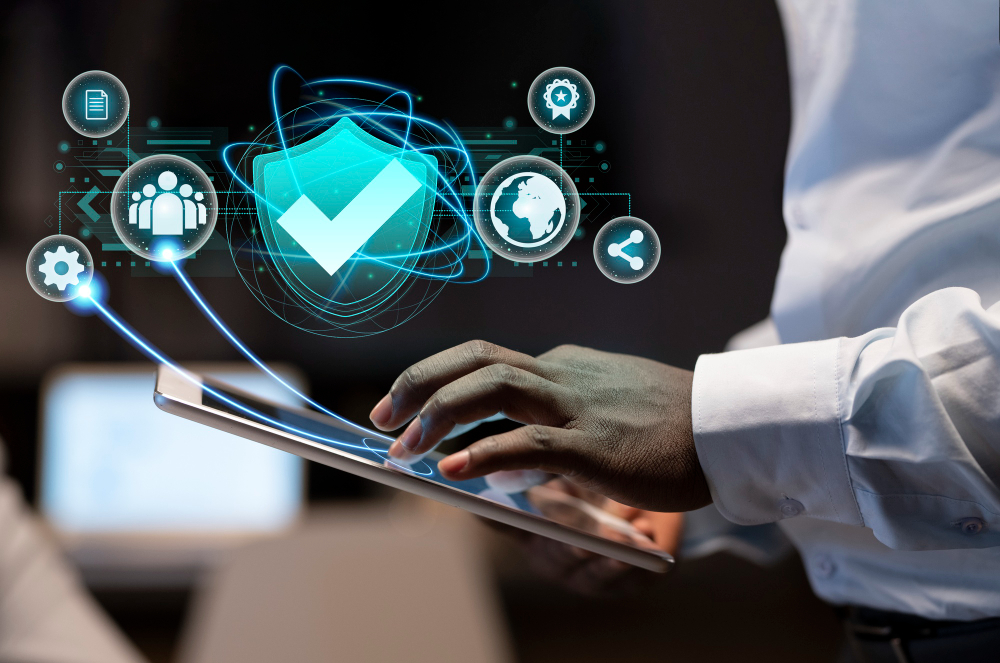
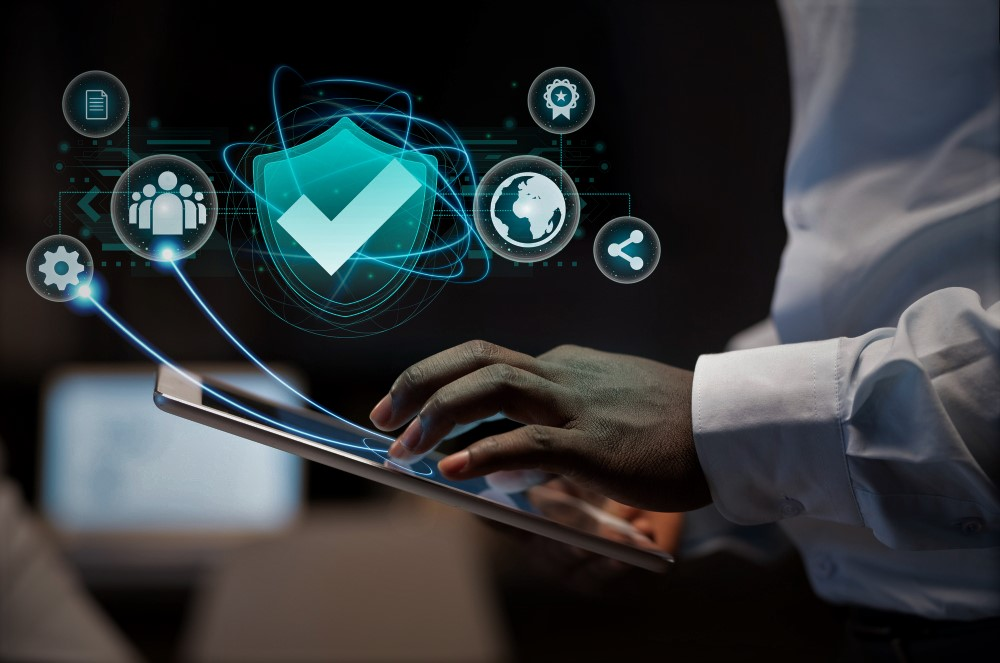
Mudança do formulário para fim da página e alteração na imagem da capa

diff --git a/index.html b/index.html
@@ -137,7 +137,7 @@
                             <a class="mx-5 nav-link text-white" href="#contadores">Resultados</a>
                         </li>
                         <li class="nav-item">
-                            <a class="btn btn-light mx-5 nav-link" href="#" id="btnMenuContato">Fazer orçamento</a>
+                            <a class="btn btn-light mx-5 nav-link text-dark" href="#meuFormulario">Fazer orçamento</a>
                         </li>
                     </ul>
                 </div>
@@ -146,56 +146,10 @@
 
         <!--Primeira página do site-->
         <section class="primeiraPagina">
-            <article class="row">
-                <div class="col-xl-8 primeiraPaginaFrase">
-                    <h1 class="text-center text-white">Consultoria especializada para seu trabalho
+                <div class="col primeiraPaginaFrase">
+                    <h1 class="text-justify text-white">Consultoria sob medida para seu trabalho
                         acadêmico</h1>
                 </div>
-                <article class="col-xl-3 formulario my-4 rounded shadow">
-                    <form action="https://formspree.io/f/xeqbkbgp" method="post" id="meuFormulario">
-                        <h6 class="py-3 text-white text-center">Faça um orçamento sem compromisso</h6>
-                        <input class="form-control" type="text" name="nome" placeholder="Nome completo" id="nome">
-                        <input class="form-control my-4" type="email" name="_replyto" placeholder="E-mail principal"
-                            id="email">
-                        <div class="row">
-                            <div class="col-xl-5">
-                                <input class="form-control mb-4" type="tel" name="telefone" placeholder="Celular"
-                                    id="telefone">
-                            </div>
-                            <div class="col-xl-7">
-                                <select class="form-control mb-4" name="interesse" id="interesse">
-                                    <option value="" disabled selected>Interesse</option>
-                                    <option value="artigo">Artigo</option>
-                                    <option value="dissertacao">Dissertação</option>
-                                    <option value="monografia">Monografia</option>
-                                    <option value="plano">Plano de aula</option>
-                                    <option value="projetoPesquisa">Projeto de pesquisa</option>
-                                    <option value="projetoViabilidade">Projeto de viabilidade</option>
-                                    <option value="outroTipoTrabalho">Outro tipo de trabalho</option>
-                                </select>
-                            </div>
-                        </div>
-                        <select class="form-control mb-4" name="curso" id="curso">
-                            <option value="" selected disabled>Curso</option>
-                            <option value="administracao">Administração</option>
-                            <option value="contabeis">Ciências Contábeis</option>
-                            <option value="economia">Economia</option>
-                            <option value="direito">Direito</option>
-                            <option value="enfermagem">Enfermagem</option>
-                            <option value="engenharia">Engenharia</option>
-                            <option value="fisioterapia">Fisioterapia</option>
-                            <option value="medicina">Medicina</option>
-                            <option value="pedagogia">Pedagogia</option>
-                            <option value="outro">Outro curso</option>
-                        </select>
-                        <textarea class="form-control" name="mensagem" id="mensagem" cols="30" rows="4"
-                            placeholder="Deixe aqui sua mensagem..."></textarea>
-                        <button class="btn btn-danger my-3 text-white" id="btnFormPrimeiraPagina" type="submit"
-                            onclick="limparCampos()">Entrar em
-                            contato</button>
-                    </form>
-                </article>
-            </article>
         </section>
 
         <!--Seção de Equipe-->
@@ -299,6 +253,7 @@
 
         <!--Seção de depoimentos-->
         <div class="depoimentos" id="depoimentos">
+            <div class="col"><h3 class="text-center text-secondary">O que dizem nossos clientes...</h3></div>
             <div class="depoimento my-4 mx-2 shadow" data-aos="fade-up" data-aos-duration="1500">
                 <h4 class="mb-2 pt-4 text-center text-secondary">Ana Maria S.</h4>
                 <h6 class="text-center text-secondary font-weight-bold">Enfermagem</h6>
@@ -332,7 +287,7 @@
                 </p>
             </div>
             <div class="depoimento my-4 mx-2 shadow" data-aos="fade-up" data-aos-duration="1500">
-                <h4 class="mb-2 pt-4 text-center text-secondary">Ana Maria S.</h4>
+                <h4 class="mb-2 pt-4 text-center text-secondary">Silvana J.</h4>
                 <h6 class="text-center text-secondary font-weight-bold">Direito</h6>
                 <p class="pt-3 px-4 text-justify text-dark">"O serviço de consultoria da Soluções Acadêmicas me deu a
                     oportunidade de equilibrar minha vida acadêmica e pessoal, porque eu estava enlouquecendo sem saber
@@ -347,7 +302,7 @@
         <!--Seção dos contadores-->
         <div class="contadores" id="contadores" data-aos="fade-up" data-aos-duration="1500">
             <div class="contadorTitulo">
-                <h3 class="pt-4 text-center text-info">Algumas de nossas marcas...</h3>
+                <h3 class="pt-4 text-center text-info">Algumas marcas...</h3>
             </div>
             <div class="centerColumn contador1 container rounded shadow text-dark mb-2" id="contador1"
                 data-aos="zoom-in" data-aos-duration="2000">Mais de <span
@@ -368,7 +323,7 @@
         <div class="centerColumn chamadaPreco">
             <div class="row">
                 <div class="col-xl-5">
-                    <img class="d-block img ml-3 w-100" src="/img/img_garota_chamada.jpg" alt="Garota">
+                    <img class="d-block img ml-3 w-100" src="/img/img3.jpg" alt="Capelo">
                 </div>
                 <div class="col-xl-7 container">
                     <h2 class="font-weight-bold py-3 text-center text-info">Qualidade e aprovação garantidos</h2>
@@ -381,6 +336,55 @@
                 </div>
             </div>
         </div>
+
+        <!--Seção do formulário-->
+        <div class="secaoFormulario" id="meuFormulario">
+            <article class="d-block mx-auto formulario mt-4 px-4 rounded shadow">
+                <form action="https://formspree.io/f/xeqbkbgp" method="post">
+                    <h6 class="py-3 text-white text-center">Faça um orçamento sem compromisso</h6>
+                    <input class="form-control" type="text" name="nome" placeholder="Nome completo" id="nome">
+                    <input class="form-control my-4" type="email" name="_replyto" placeholder="E-mail principal"
+                        id="email">
+                    <div class="row">
+                        <div class="col-xl-5">
+                            <input class="form-control mb-4" type="tel" name="telefone" placeholder="Celular"
+                                id="telefone">
+                        </div>
+                        <div class="col-xl-7">
+                            <select class="form-control mb-4" name="interesse" id="interesse">
+                                <option value="" disabled selected>Interesse</option>
+                                <option value="artigo">Artigo</option>
+                                <option value="dissertacao">Dissertação</option>
+                                <option value="monografia">Monografia</option>
+                                <option value="plano">Plano de aula</option>
+                                <option value="projetoPesquisa">Projeto de pesquisa</option>
+                                <option value="projetoViabilidade">Projeto de viabilidade</option>
+                                <option value="outroTipoTrabalho">Outro tipo de trabalho</option>
+                            </select>
+                        </div>
+                    </div>
+                    <select class="form-control mb-4" name="curso" id="curso">
+                        <option value="" selected disabled>Curso</option>
+                        <option value="administracao">Administração</option>
+                        <option value="contabeis">Ciências Contábeis</option>
+                        <option value="economia">Economia</option>
+                        <option value="direito">Direito</option>
+                        <option value="enfermagem">Enfermagem</option>
+                        <option value="engenharia">Engenharia</option>
+                        <option value="fisioterapia">Fisioterapia</option>
+                        <option value="medicina">Medicina</option>
+                        <option value="pedagogia">Pedagogia</option>
+                        <option value="outro">Outro curso</option>
+                    </select>
+                    <textarea class="form-control" name="mensagem" id="mensagem" cols="30" rows="4"
+                        placeholder="Deixe aqui sua mensagem..."></textarea>
+                    <button class="btn btn-primary my-3 text-white" id="btnFormPrimeiraPagina" type="submit"
+                        onclick="limparCampos()">Entrar em
+                        contato</button>
+                </form>
+            </article>
+        </div>
+        
 
 
         <!--Seção rodapé-->

diff --git a/css/estilosGerais.css b/css/estilosGerais.css
@@ -63,13 +63,17 @@ html {
 .primeiraPagina {
     width: 100vw;
     height: 90vh;
-    background-image: url('/img/img3.jpg');
+    background-image: url('/img/img_garota_chamada.jpg');
     background-size: cover;
     background-position: center;
 }
 
 .primeiraPaginaFrase h1 {
+    width: 40vw;
+    margin-top: 30vh !important;
+    margin-right: 45vw;
     font-size: 3rem;
+    text-align: left !important;
 }
 
 .primeiraPaginaFrase {
@@ -79,14 +83,8 @@ html {
     height: auto;
 }
 
-.formulario {
-    backdrop-filter: blur(15px);
-    min-height: 70vh;
-    width: 30vw;
-    border: 0.4px solid grey !important;
-}
-
 .equipe {
+    scroll-margin-top: 5rem;
     background-color: white;
     width: 100vw;
     min-height: 100vh;
@@ -128,6 +126,11 @@ p {
     min-height: 70vh;
     margin: 0.5rem;
     backdrop-filter: blur(10px);
+}
+
+.servico:hover{
+    transform: scale(1.05) !important;
+    transition: all 0.2s;
 }
 
 .servico a,
@@ -257,7 +260,7 @@ p {
 
 .chamadaPreco{
     width: 100vw;
-    height: 85vh;
+    height: 100vh;
 }
 
 .chamada{
@@ -286,7 +289,24 @@ p {
     overflow: hidden;
 }
 
-#btnOrcamentoChamada{width: fit-content;}
+#btnOrcamentoChamada{width: fit-content}
+
+.secaoFormulario{
+    display: flex;
+    align-items: center;
+    justify-content: center;
+    background-image: url("/img/direitoAutoral2.jpg");
+    background-size: cover;
+    background-position: center;
+    width: 100vw;
+    height: 90vh;
+}
+
+.formulario {
+    backdrop-filter: blur(15px);
+    min-height: 70vh;
+    width: 50vw;
+}
 
 .rodape {
     background-color: rgb(18, 17, 17);
@@ -336,7 +356,7 @@ p {
     .primeiraPaginaImagem {
         width: 100vw;
         margin: 0 auto;
-        height: auto;
+        height: 70vh;
     }
 
     .primeiraPaginaImagem img {
@@ -350,7 +370,8 @@ p {
     }
 
     .formulario {
-        width: 96vw !important;
+        width: 97vw !important;
+        padding: 0 0.25rem !important;
         margin: 0 auto !important;
     }
 
